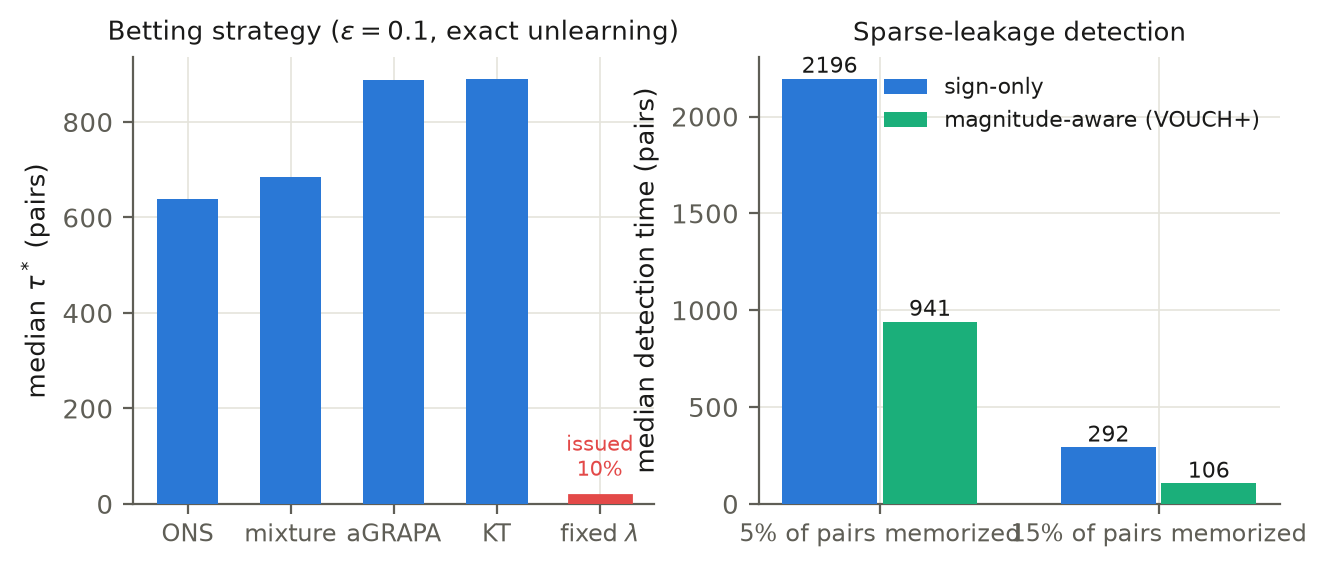
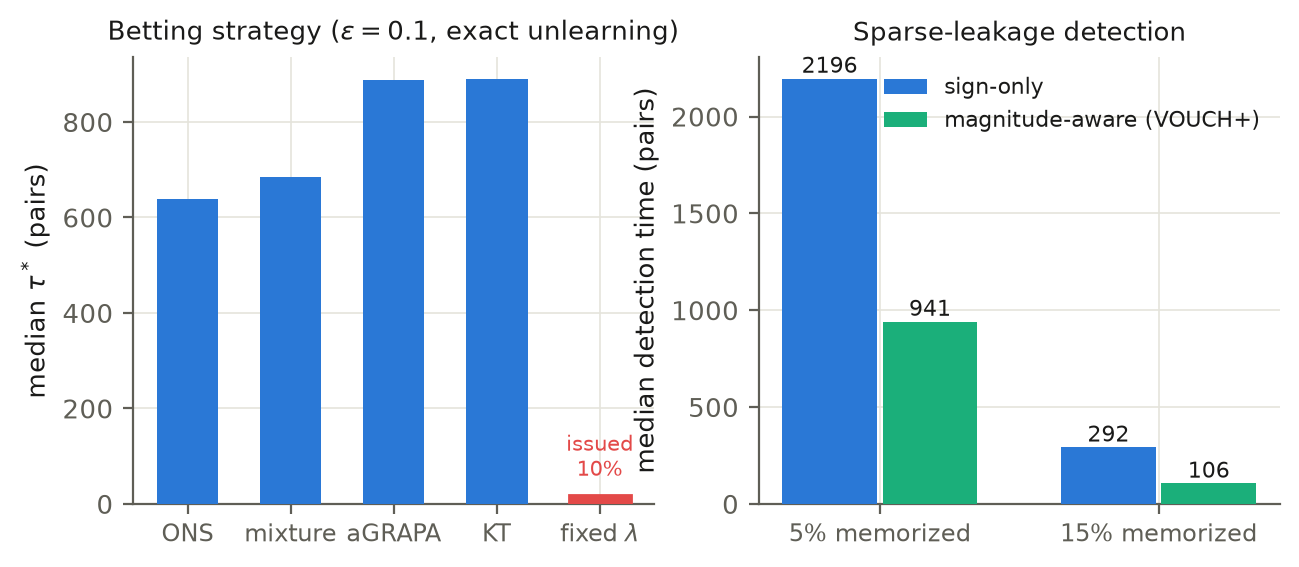
Fix fig5 label collision
Claude-Session: https://claude.ai/code/session_01Vin7swZZoQkrdvJ75UwLjk

diff --git a/experiments/make_figures.py b/experiments/make_figures.py
@@ -202,7 +202,7 @@ def fig_ablation():
     for xi, (s, m) in enumerate(zip(sm, mm)):
         ax.annotate(f"{s:.0f}", (xi - w / 2 - 0.01, s + 30), ha="center", fontsize=8)
         ax.annotate(f"{m:.0f}", (xi + w / 2 + 0.01, m + 30), ha="center", fontsize=8)
-    ax.set_xticks(x, [f"{f:.0%} of pairs memorized" for f in fracs], fontsize=8.5)
+    ax.set_xticks(x, [f"{f:.0%} memorized" for f in fracs], fontsize=8.5)
     ax.set_ylabel("median detection time (pairs)")
     ax.legend(fontsize=7.8, frameon=False)
     ax.set_title("Sparse-leakage detection", fontsize=9.5)